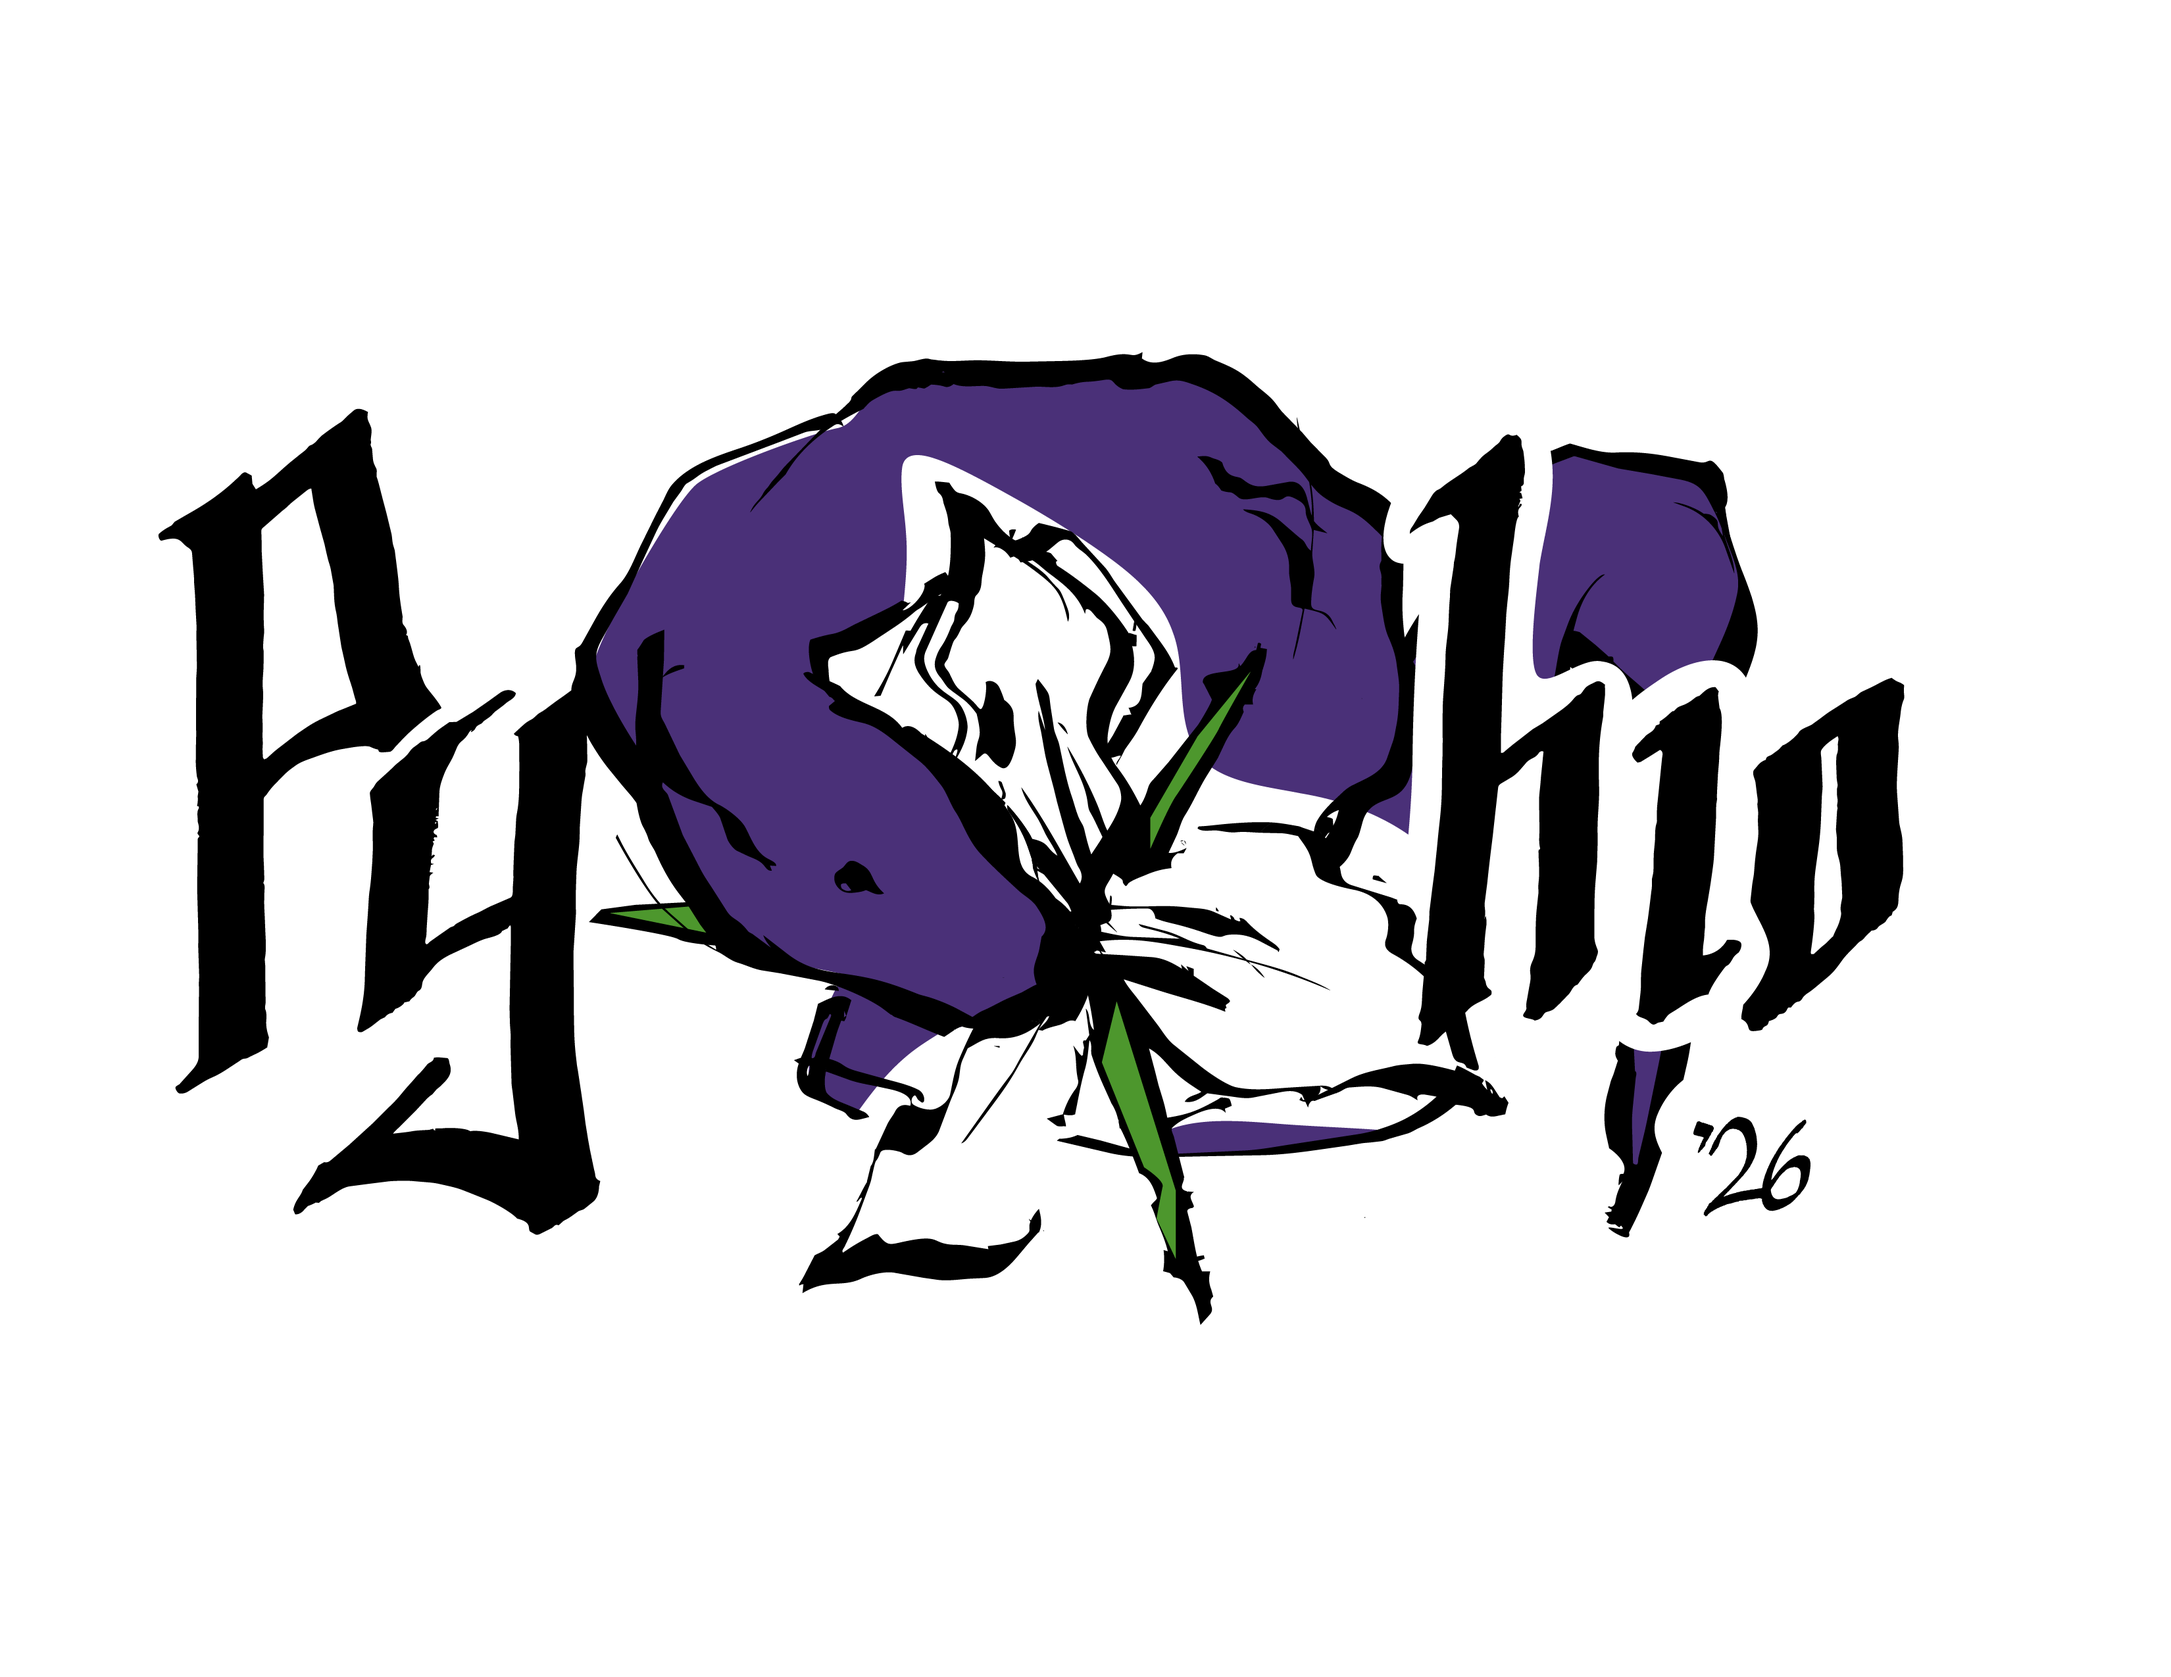
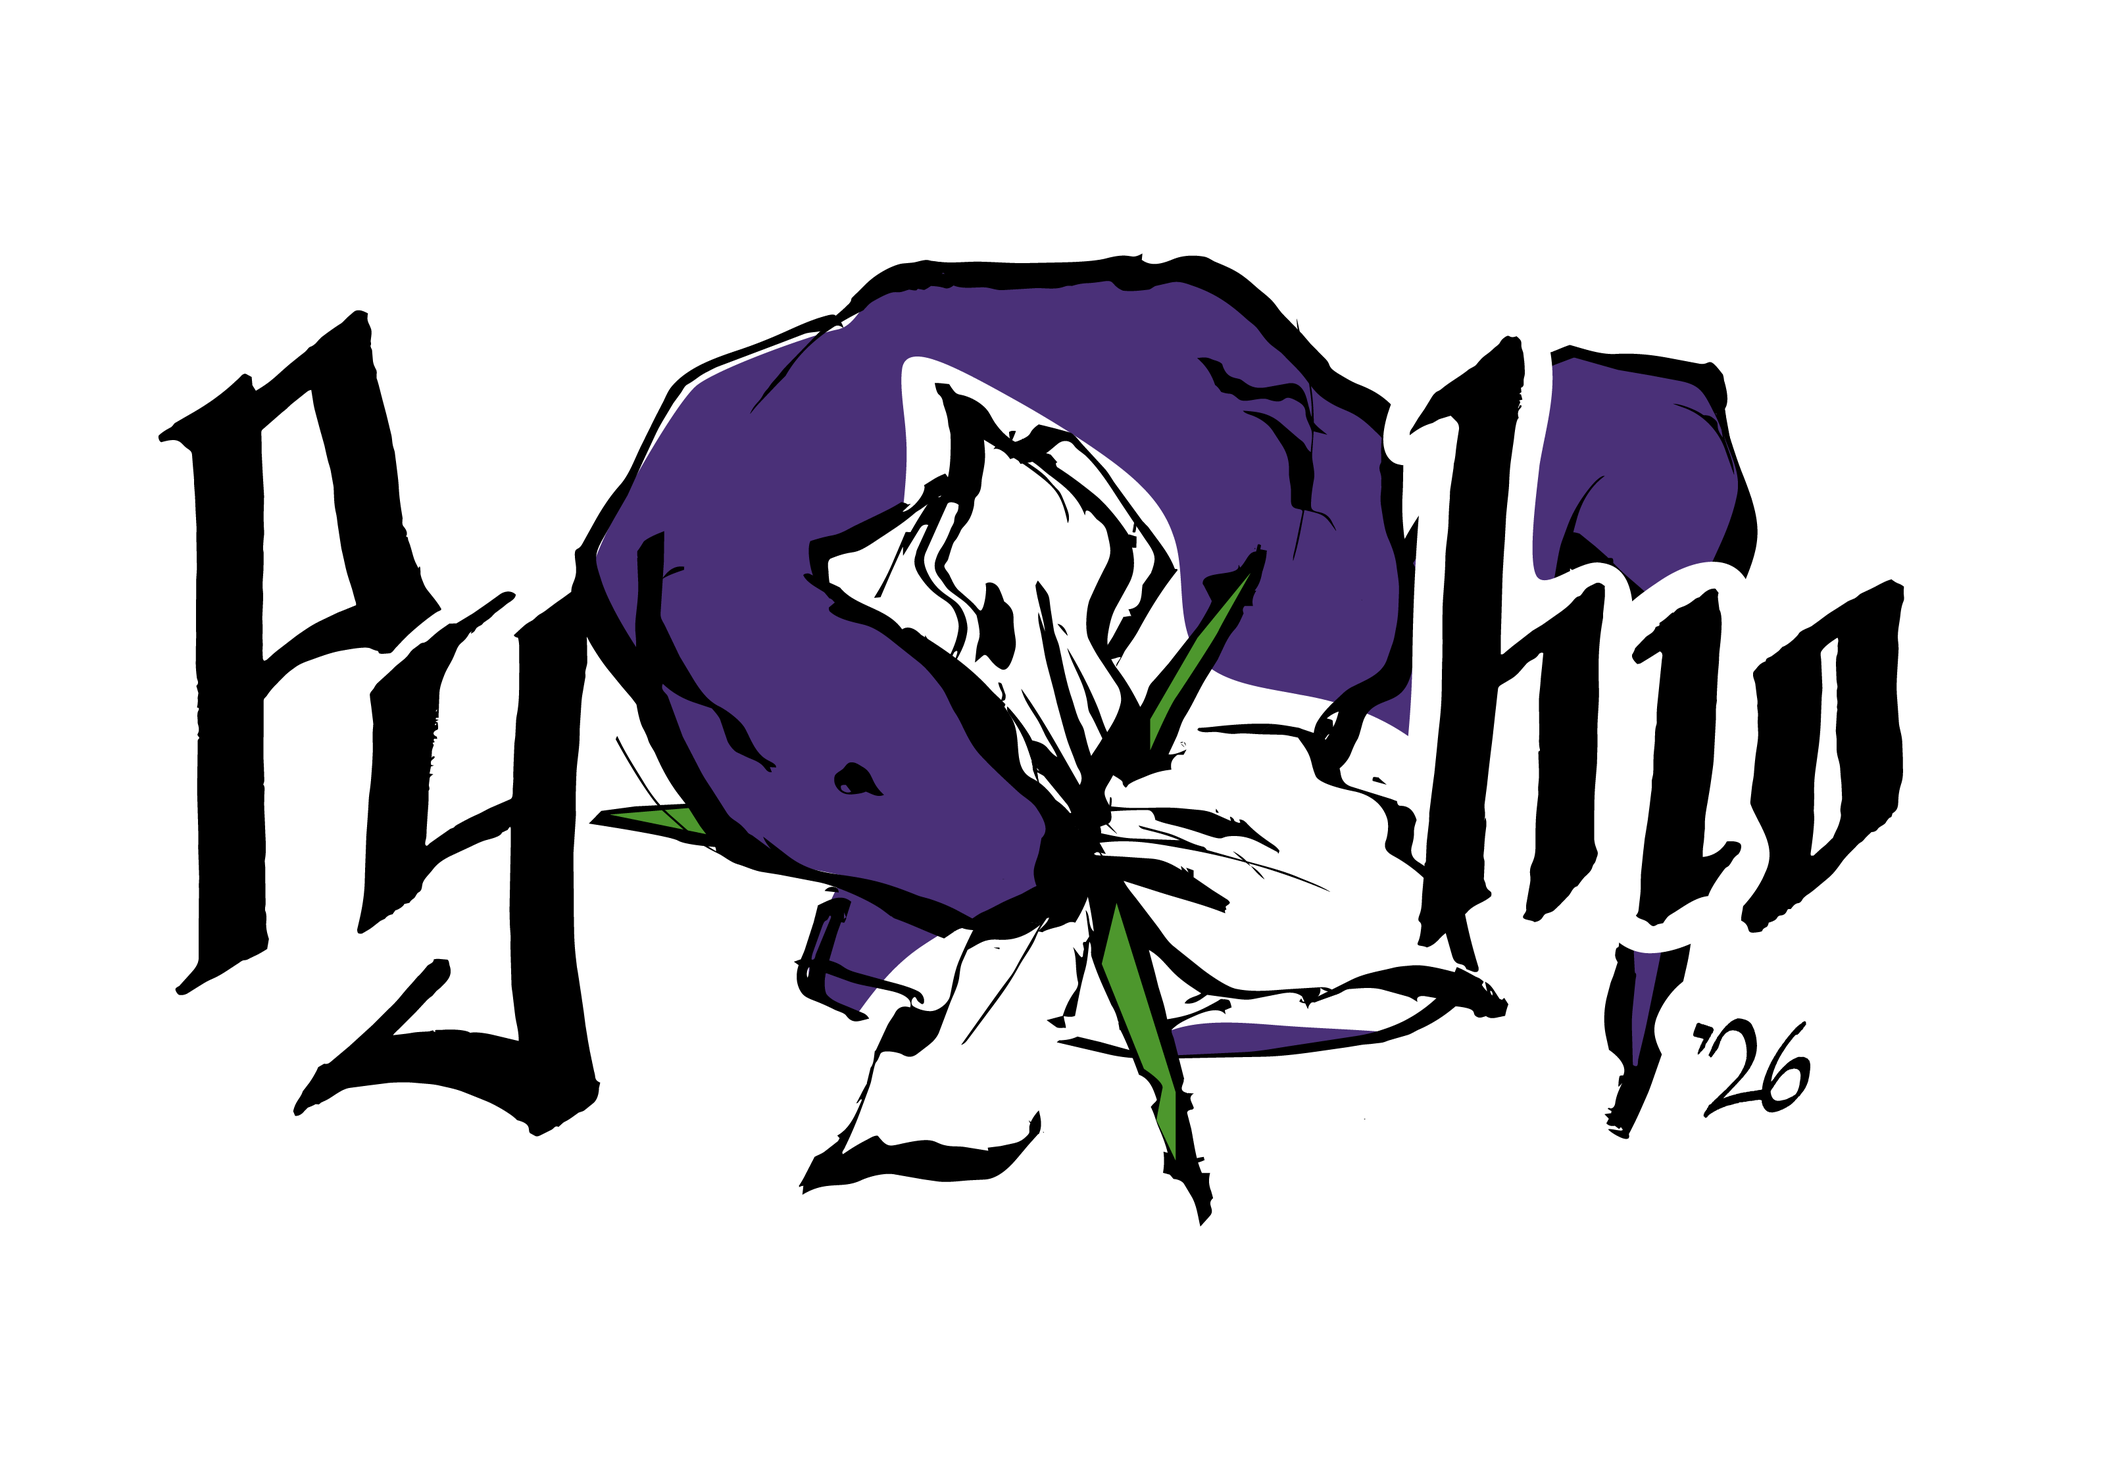
og image

Changed region(s): [[0.0625, 0.1556, 0.9062, 0.84], [0.0625, 0.4667, 0.125, 0.6844]]

diff --git a/2026/og-preview.html b/2026/og-preview.html
@@ -1,0 +1,104 @@
+<!DOCTYPE html>
+<html lang="en">
+<head>
+    <meta charset="UTF-8">
+    <meta name="viewport" content="width=device-width, initial-scale=1.0">
+    <title>OG Image Preview</title>
+    <link href="https://fonts.googleapis.com/css2?family=Nunito:wght@800&display=swap" rel="stylesheet">
+    <style>
+        body {
+            margin: 0;
+            padding: 2rem;
+            background: #222;
+            display: flex;
+            flex-direction: column;
+            align-items: center;
+            gap: 1rem;
+        }
+
+        .info {
+            color: #aaa;
+            font-family: sans-serif;
+            font-size: 14px;
+        }
+
+        .og-frame {
+            width: 1200px;
+            height: 630px;
+            background: #4A3078;
+            display: flex;
+            align-items: center;
+            justify-content: center;
+            gap: 40px;
+            padding: 60px 60px 60px 120px;
+            box-sizing: border-box;
+            position: relative;
+            overflow: hidden;
+        }
+
+        .left {
+            display: flex;
+            flex-direction: column;
+            gap: 16px;
+            flex-shrink: 0;
+        }
+
+        .logo-row {
+            display: flex;
+            align-items: center;
+            gap: 20px;
+        }
+
+        .square-logo {
+            width: 80px;
+            height: 80px;
+        }
+
+        .title {
+            font-family: 'Nunito', sans-serif;
+            font-weight: 800;
+            font-size: 56px;
+            color: white;
+            white-space: nowrap;
+        }
+
+        .subtitle {
+            font-family: 'Nunito', sans-serif;
+            font-weight: 400;
+            font-size: 28px;
+            color: rgba(255,255,255,0.85);
+            max-width: 420px;
+            line-height: 1.4;
+        }
+
+        .right {
+            flex: 1;
+            display: flex;
+            align-items: center;
+            justify-content: center;
+        }
+
+        .hero-logo {
+            max-width: 500px;
+            width: 100%;
+            filter: drop-shadow(0 2px 8px rgba(200,200,210,0.5));
+        }
+    </style>
+</head>
+<body>
+    <div class="info">OG Image Preview — 1200×630px. Screenshot or export this frame.</div>
+
+    <div class="og-frame">
+        <div class="left">
+            <div class="logo-row">
+                <img src="_static/img/logo-white-sq.png" alt="PyOhio" class="square-logo">
+                <div class="title">PyOhio 2026</div>
+            </div>
+            <div class="subtitle">July 25–26, 2026<br>Cleveland, OH</div>
+        </div>
+        <div class="right">
+            <img src="_static/img/pyohio-2026-transparent.png" alt="PyOhio '26" class="hero-logo">
+        </div>
+    </div>
+</body>
+</html>

diff --git a/2026/_themes/pyohio/base.html b/2026/_themes/pyohio/base.html
@@ -4,7 +4,9 @@
     <meta charset="UTF-8">
     <meta name="viewport" content="width=device-width, initial-scale=1.0">
     <title>{% block title %}{{ page.title }}{% if site.title %} - {{ site.title }}{% endif %}{% endblock %}</title>
-    <link rel="icon" type="image/png" href="{{ site.base_path }}/img/pyohio-square-primary.png" />
+    <link rel="icon" href="{{ site.base_path }}/favicon.ico" sizes="48x48">
+    <link rel="icon" type="image/png" href="{{ site.base_path }}/favicon.png" sizes="180x180">
+    <link rel="apple-touch-icon" href="{{ site.base_path }}/favicon.png">
     {% include "components/meta.html" %}
     <link href="{{ site.base_path }}/{{ site.assets_dir }}/rockgarden.css{% if site.cache_hash %}?v={{ site.cache_hash }}{% endif %}" rel="stylesheet" type="text/css" />
     {% if site.search_enabled %}

diff --git a/2026/_themes/pyohio/page.html b/2026/_themes/pyohio/page.html
@@ -9,7 +9,7 @@
     {% block before_heading %}{% endblock %}
     {% if page.frontmatter.get('hero_image') %}
     <div class="flex justify-center mb-6">
-        <img src="{{ page.frontmatter.hero_image }}" alt="{{ page.title }}" class="max-w-md w-full" style="filter: drop-shadow(0 2px 4px rgba(200,200,210,0.5));">
+        <img src="{{ page.frontmatter.hero_image }}" alt="{{ page.title }}" class="max-w-md w-full" style="filter: drop-shadow(0 2px 8px rgba(200,200,210,0.5));">
     </div>
     {% endif %}
     {% block heading %}{% if not page.frontmatter.get('hide_title') %}<h1 class="text-3xl lg:text-4xl font-extrabold text-primary-content mb-6">{{ page.title }}</h1>{% endif %}{% endblock %}

diff --git a/2026/README.md b/2026/README.md
@@ -7,10 +7,8 @@ This directory contains the 2026 conference site built with [Rockgarden](https:/
 The following assets are copied from the 2025 site and need to be replaced with 2026 versions when available:
 
 - [ ] `_static/favicon.ico` — Browser tab icon
-- [ ] `_static/img/logo.svg` — Navbar logo (small, currently the generic PyOhio mark)
-- [ ] `_static/img/logo.png` — Full logo with text (currently 2025 snake logo, 2263x2804)
 - [ ] `_static/img/logo-white-sq.png` — White logo on transparent background for dark headers (currently 1050x1050)
-- [ ] `_static/img/og-image.png` — Social sharing preview image (currently 2025 branded, 1200x630)
+- [x] `_static/img/og-image.png` — Social sharing preview image (1200x630, generated via `og-preview.html`)
 - [ ] `rockgarden.toml` `og_image` URL — Update if the OG image filename changes
 
 ## Content to Update When Ready
